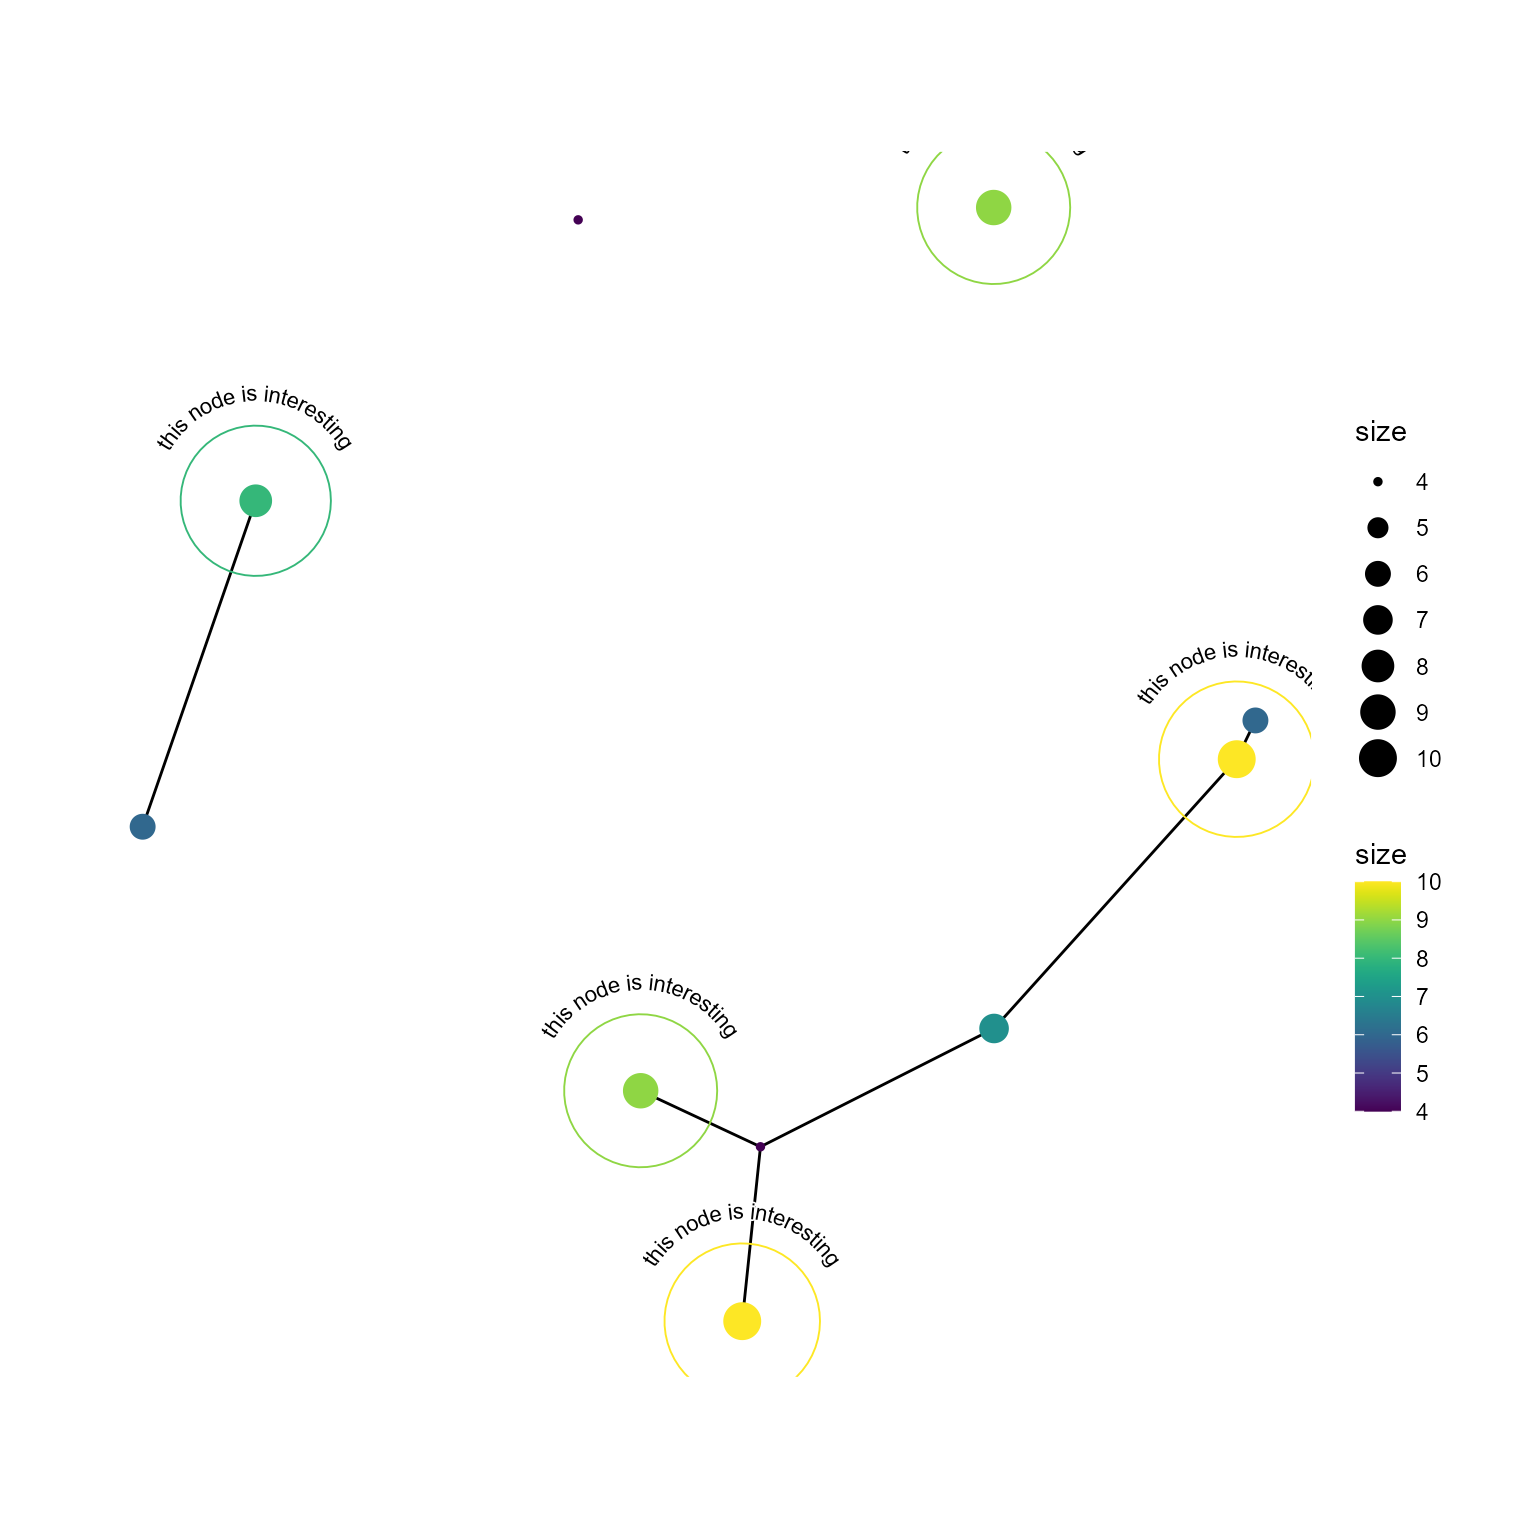
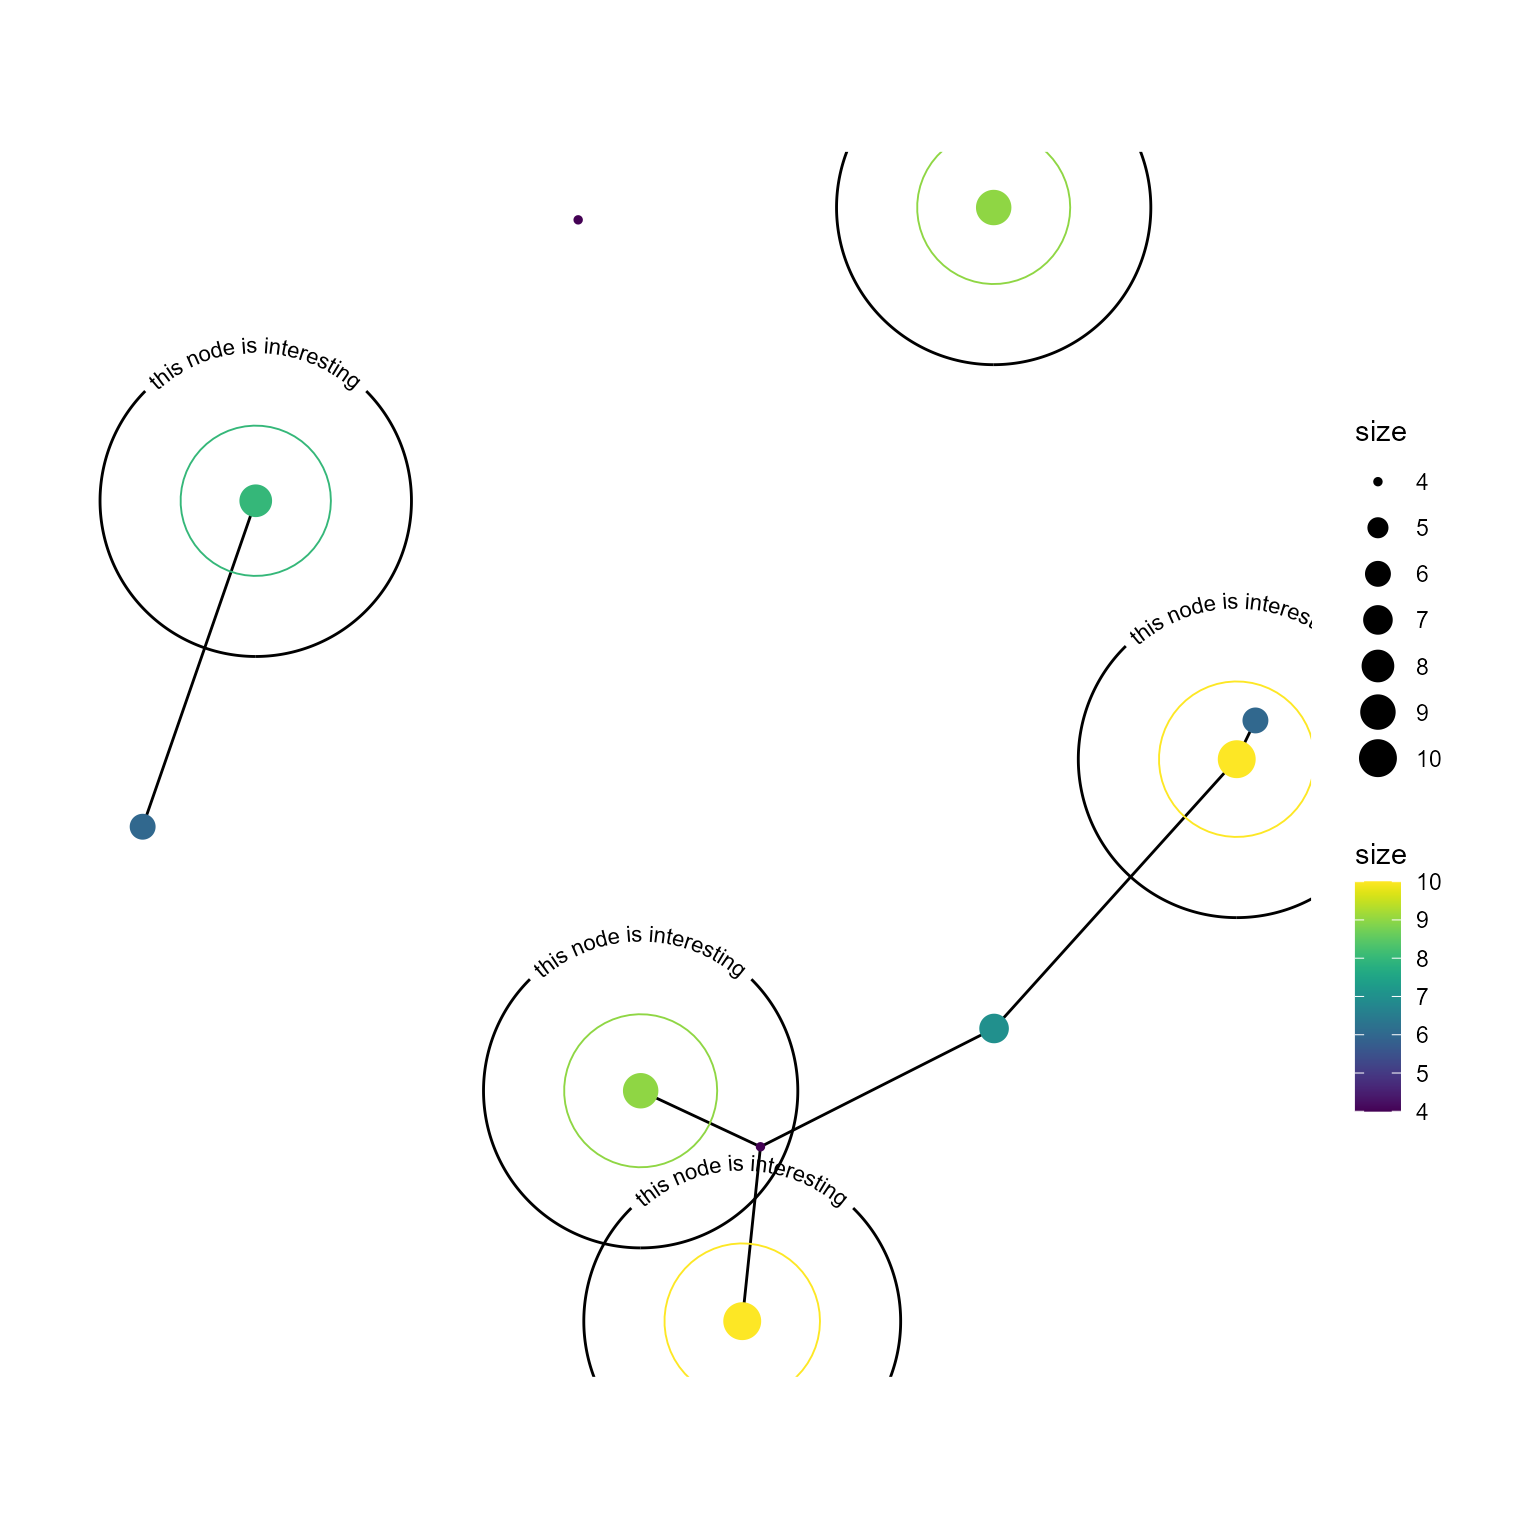
update docs

diff --git a/docs/graphhighlight/articles/usage_of_graphhighlight.html b/docs/graphhighlight/articles/usage_of_graphhighlight.html
@@ -188,7 +188,7 @@ nodes.</p>
 <span>                 highlight_by_shape <span class="op">=</span> <span class="cn">TRUE</span>,</span>
 <span>                 shape_with_text <span class="op">=</span> <span class="st">"this node is interesting"</span>,</span>
 <span>                 shape_size <span class="op">=</span> <span class="fl">21</span>,</span>
-<span>                 text_size<span class="op">=</span><span class="fl">3</span><span class="op">)</span><span class="op">+</span></span>
+<span>                 textpath_params<span class="op">=</span><span class="fu"><a href="https://rdrr.io/r/base/list.html" class="external-link">list</a></span><span class="op">(</span>size<span class="op">=</span><span class="fl">3</span><span class="op">)</span><span class="op">)</span><span class="op">+</span></span>
 <span>  <span class="fu"><a href="https://ggplot2.tidyverse.org/reference/coord_fixed.html" class="external-link">coord_fixed</a></span><span class="op">(</span><span class="op">)</span><span class="op">+</span></span>
 <span>  <span class="fu"><a href="https://ggraph.data-imaginist.com/reference/theme_graph.html" class="external-link">theme_graph</a></span><span class="op">(</span><span class="op">)</span></span></code></pre></div>
 <p><img src="usage_of_graphhighlight_files/figure-html/node7-1.png" width="768"></p>
@@ -303,6 +303,38 @@ looking.</p>
 <span>  <span class="fu"><a href="https://ggraph.data-imaginist.com/reference/theme_graph.html" class="external-link">theme_graph</a></span><span class="op">(</span><span class="op">)</span></span></code></pre></div>
 <p><img src="usage_of_graphhighlight_files/figure-html/combine-1.png" width="768"></p>
 <div class="sourceCode" id="cb17"><pre class="downlit sourceCode r">
+<code class="sourceCode R"><span><span class="va">g</span> <span class="op">&lt;-</span> <span class="fu"><a href="https://rdrr.io/pkg/igraph/man/sample_forestfire.html" class="external-link">sample_forestfire</a></span><span class="op">(</span>nodes <span class="op">=</span> <span class="fl">300</span>, fw.prob <span class="op">=</span> <span class="fl">0.01</span><span class="op">)</span></span>
+<span><span class="fu"><a href="https://rdrr.io/pkg/igraph/man/E.html" class="external-link">E</a></span><span class="op">(</span><span class="va">g</span><span class="op">)</span><span class="op">$</span><span class="va">weight</span> <span class="op">&lt;-</span> <span class="fu"><a href="https://rdrr.io/r/base/sample.html" class="external-link">sample</a></span><span class="op">(</span><span class="fu"><a href="https://rdrr.io/r/base/seq.html" class="external-link">seq</a></span><span class="op">(</span><span class="fl">0.1</span>, <span class="fl">100</span>, <span class="fl">0.1</span><span class="op">)</span>,</span>
+<span>  <span class="fu"><a href="https://rdrr.io/r/base/length.html" class="external-link">length</a></span><span class="op">(</span><span class="fu"><a href="https://rdrr.io/pkg/igraph/man/E.html" class="external-link">E</a></span><span class="op">(</span><span class="va">g</span><span class="op">)</span><span class="op">)</span>, replace<span class="op">=</span><span class="cn">TRUE</span><span class="op">)</span></span>
+<span><span class="fu"><a href="https://rdrr.io/pkg/igraph/man/V.html" class="external-link">V</a></span><span class="op">(</span><span class="va">g</span><span class="op">)</span><span class="op">$</span><span class="va">size</span> <span class="op">&lt;-</span> <span class="fu"><a href="https://rdrr.io/r/base/sample.html" class="external-link">sample</a></span><span class="op">(</span><span class="fu"><a href="https://rdrr.io/r/base/seq.html" class="external-link">seq</a></span><span class="op">(</span><span class="fl">0.1</span>, <span class="fl">100</span>, <span class="fl">0.1</span><span class="op">)</span>, </span>
+<span>  <span class="fu"><a href="https://rdrr.io/r/base/length.html" class="external-link">length</a></span><span class="op">(</span><span class="fu"><a href="https://rdrr.io/pkg/igraph/man/V.html" class="external-link">V</a></span><span class="op">(</span><span class="va">g</span><span class="op">)</span><span class="op">)</span>, replace<span class="op">=</span><span class="cn">TRUE</span><span class="op">)</span></span>
+<span><span class="fu"><a href="https://rdrr.io/pkg/igraph/man/V.html" class="external-link">V</a></span><span class="op">(</span><span class="va">g</span><span class="op">)</span><span class="op">$</span><span class="va">name</span> <span class="op">&lt;-</span> <span class="fu"><a href="https://rdrr.io/r/base/unlist.html" class="external-link">unlist</a></span><span class="op">(</span><span class="fu"><a href="https://rdrr.io/r/base/strsplit.html" class="external-link">strsplit</a></span><span class="op">(</span><span class="fu"><a href="https://rdrr.io/r/base/grep.html" class="external-link">gsub</a></span><span class="op">(</span><span class="st">" "</span>,<span class="st">""</span>,</span>
+<span>  <span class="fu">stringi</span><span class="fu">::</span><span class="fu"><a href="https://rdrr.io/pkg/stringi/man/stri_rand_lipsum.html" class="external-link">stri_rand_lipsum</a></span><span class="op">(</span><span class="fl">1</span><span class="op">)</span><span class="op">)</span>, <span class="st">""</span><span class="op">)</span><span class="op">)</span><span class="op">[</span><span class="fl">1</span><span class="op">:</span><span class="fu"><a href="https://rdrr.io/r/base/length.html" class="external-link">length</a></span><span class="op">(</span><span class="fu"><a href="https://rdrr.io/pkg/igraph/man/V.html" class="external-link">V</a></span><span class="op">(</span><span class="va">g</span><span class="op">)</span><span class="op">)</span><span class="op">]</span></span>
+<span></span>
+<span><span class="fu"><a href="https://ggraph.data-imaginist.com/reference/ggraph.html" class="external-link">ggraph</a></span><span class="op">(</span><span class="va">g</span>, layout<span class="op">=</span><span class="st">"kk"</span><span class="op">)</span> <span class="op">+</span> </span>
+<span>  <span class="fu"><a href="https://ggraph.data-imaginist.com/reference/geom_edge_diagonal.html" class="external-link">geom_edge_diagonal</a></span><span class="op">(</span><span class="fu"><a href="https://ggplot2.tidyverse.org/reference/aes.html" class="external-link">aes</a></span><span class="op">(</span>color<span class="op">=</span><span class="va">weight</span>, width<span class="op">=</span><span class="va">weight</span><span class="op">)</span><span class="op">)</span><span class="op">+</span></span>
+<span>  <span class="fu"><a href="https://ggraph.data-imaginist.com/reference/scale_edge_width.html" class="external-link">scale_edge_width</a></span><span class="op">(</span>range<span class="op">=</span><span class="fu"><a href="https://rdrr.io/r/base/c.html" class="external-link">c</a></span><span class="op">(</span><span class="fl">0.1</span>,<span class="fl">1</span><span class="op">)</span><span class="op">)</span><span class="op">+</span></span>
+<span>  <span class="fu"><a href="https://ggraph.data-imaginist.com/reference/scale_edge_colour.html" class="external-link">scale_edge_color_viridis</a></span><span class="op">(</span>option<span class="op">=</span><span class="st">"C"</span>, guide<span class="op">=</span><span class="st">"none"</span><span class="op">)</span><span class="op">+</span></span>
+<span>  <span class="fu"><a href="../reference/highlight_edge.html">highlight_edge</a></span><span class="op">(</span>filter<span class="op">=</span><span class="st">"weight&gt;50"</span>, highlight_color <span class="op">=</span> <span class="cn">NULL</span>,</span>
+<span>                 use_ggfx<span class="op">=</span><span class="st">"with_outer_glow"</span>,</span>
+<span>                 ggfx_params <span class="op">=</span> <span class="fu"><a href="https://rdrr.io/r/base/list.html" class="external-link">list</a></span><span class="op">(</span>colour<span class="op">=</span><span class="st">"red"</span>,expand<span class="op">=</span><span class="fl">1</span><span class="op">)</span><span class="op">)</span><span class="op">+</span></span>
+<span>  <span class="fu"><a href="https://ggraph.data-imaginist.com/reference/geom_node_point.html" class="external-link">geom_node_point</a></span><span class="op">(</span><span class="fu"><a href="https://ggplot2.tidyverse.org/reference/aes.html" class="external-link">aes</a></span><span class="op">(</span>color<span class="op">=</span><span class="va">size</span>, size<span class="op">=</span><span class="va">size</span><span class="op">)</span><span class="op">)</span><span class="op">+</span></span>
+<span>  <span class="fu"><a href="../reference/highlight_node.html">highlight_node</a></span><span class="op">(</span>filter<span class="op">=</span><span class="st">"size&lt;50"</span>, use_ggfx<span class="op">=</span><span class="st">"with_outer_glow"</span>,</span>
+<span>                 ggfx_params <span class="op">=</span> <span class="fu"><a href="https://rdrr.io/r/base/list.html" class="external-link">list</a></span><span class="op">(</span>colour<span class="op">=</span><span class="st">"white"</span>,expand<span class="op">=</span><span class="fl">2.5</span><span class="op">)</span><span class="op">)</span><span class="op">+</span></span>
+<span>  <span class="co">## Above code is same as stacking the layer:</span></span>
+<span>  <span class="co">## with_outer_glow(geom_node_point(aes(filter=size&lt;50)),</span></span>
+<span>  <span class="co">##                 colour="white", expand=2.5)+</span></span>
+<span>  <span class="fu"><a href="../reference/highlight_node.html">highlight_node</a></span><span class="op">(</span>filter<span class="op">=</span><span class="st">"size&gt;70"</span>, with_text<span class="op">=</span><span class="st">"Lorem ipsum dolor sit amet"</span>,</span>
+<span>                 textpath_params<span class="op">=</span><span class="fu"><a href="https://rdrr.io/r/base/list.html" class="external-link">list</a></span><span class="op">(</span>color <span class="op">=</span> <span class="st">"white"</span>,</span>
+<span>                                      text_only<span class="op">=</span><span class="cn">TRUE</span>,</span>
+<span>                                      size<span class="op">=</span><span class="fl">2</span><span class="op">)</span><span class="op">)</span><span class="op">+</span></span>
+<span>  <span class="fu"><a href="../reference/highlight_node.html">highlight_node</a></span><span class="op">(</span>filter<span class="op">=</span><span class="st">"size&gt;50"</span>, glow<span class="op">=</span><span class="cn">TRUE</span>, glow_base_size <span class="op">=</span> <span class="cn">TRUE</span><span class="op">)</span><span class="op">+</span></span>
+<span>  <span class="fu"><a href="https://sjmgarnier.github.io/viridis/reference/scale_viridis.html" class="external-link">scale_color_viridis</a></span><span class="op">(</span>option<span class="op">=</span><span class="st">"B"</span><span class="op">)</span><span class="op">+</span></span>
+<span>  <span class="fu"><a href="https://ggplot2.tidyverse.org/reference/coord_fixed.html" class="external-link">coord_fixed</a></span><span class="op">(</span><span class="op">)</span><span class="op">+</span></span>
+<span>  <span class="fu"><a href="https://ggraph.data-imaginist.com/reference/theme_graph.html" class="external-link">theme_graph</a></span><span class="op">(</span><span class="op">)</span><span class="op">+</span></span>
+<span>  <span class="fu"><a href="https://ggplot2.tidyverse.org/reference/theme.html" class="external-link">theme</a></span><span class="op">(</span>panel.background <span class="op">=</span> <span class="fu"><a href="https://ggplot2.tidyverse.org/reference/element.html" class="external-link">element_rect</a></span><span class="op">(</span>fill <span class="op">=</span> <span class="st">'black'</span><span class="op">)</span><span class="op">)</span></span></code></pre></div>
+<p><img src="usage_of_graphhighlight_files/figure-html/combine2-1.png" width="1440"></p>
+<div class="sourceCode" id="cb18"><pre class="downlit sourceCode r">
 <code class="sourceCode R"><span><span class="fu"><a href="https://rdrr.io/r/utils/sessionInfo.html" class="external-link">sessionInfo</a></span><span class="op">(</span><span class="op">)</span></span></code></pre></div>
 <pre><code><span><span class="co">## R version 4.2.2 (2022-10-31 ucrt)</span></span>
 <span><span class="co">## Platform: x86_64-w64-mingw32/x64 (64-bit)</span></span>
@@ -337,8 +369,9 @@ looking.</p>
 <span><span class="co">## [45] stringi_1.7.12     cachem_1.0.7       farver_2.1.1       viridis_0.6.2     </span></span>
 <span><span class="co">## [49] fs_1.6.1           bslib_0.4.2        ragg_1.2.5         generics_0.1.3    </span></span>
 <span><span class="co">## [53] vctrs_0.5.2        tools_4.2.2        glue_1.6.2         tweenr_2.0.2      </span></span>
-<span><span class="co">## [57] purrr_1.0.1        fastmap_1.1.1      yaml_2.3.7         colorspace_2.1-0  </span></span>
-<span><span class="co">## [61] tidygraph_1.2.3    memoise_2.0.1      knitr_1.42         sass_0.4.5</span></span></code></pre>
+<span><span class="co">## [57] purrr_1.0.1        shadowtext_0.1.2   fastmap_1.1.1      yaml_2.3.7        </span></span>
+<span><span class="co">## [61] colorspace_2.1-0   tidygraph_1.2.3    memoise_2.0.1      knitr_1.42        </span></span>
+<span><span class="co">## [65] sass_0.4.5</span></span></code></pre>
 </div>
 </div>
 </div>

diff --git a/docs/graphhighlight/reference/highlight_node.html b/docs/graphhighlight/reference/highlight_node.html
@@ -66,13 +66,12 @@ highlight the nodes</p>
 <span>  shape_size <span class="op">=</span> <span class="cn">NULL</span>,</span>
 <span>  shape_color <span class="op">=</span> <span class="cn">NULL</span>,</span>
 <span>  shape_with_text <span class="op">=</span> <span class="cn">NULL</span>,</span>
-<span>  text_color <span class="op">=</span> <span class="st">"black"</span>,</span>
-<span>  text_offset <span class="op">=</span> <span class="fu"><a href="https://rdrr.io/r/grid/unit.html" class="external-link">unit</a></span><span class="op">(</span><span class="fl">5</span>, <span class="st">"mm"</span><span class="op">)</span>,</span>
-<span>  text_size <span class="op">=</span> <span class="fl">3</span>,</span>
+<span>  with_text <span class="op">=</span> <span class="cn">NULL</span>,</span>
 <span>  glow_size <span class="op">=</span> <span class="fl">1.2</span>,</span>
 <span>  override_text <span class="op">=</span> <span class="cn">FALSE</span>,</span>
 <span>  use_ggfx <span class="op">=</span> <span class="cn">NULL</span>,</span>
-<span>  ggfx_params <span class="op">=</span> <span class="fu"><a href="https://rdrr.io/r/base/list.html" class="external-link">list</a></span><span class="op">(</span><span class="op">)</span></span>
+<span>  ggfx_params <span class="op">=</span> <span class="fu"><a href="https://rdrr.io/r/base/list.html" class="external-link">list</a></span><span class="op">(</span><span class="op">)</span>,</span>
+<span>  textpath_params <span class="op">=</span> <span class="fu"><a href="https://rdrr.io/r/base/list.html" class="external-link">list</a></span><span class="op">(</span><span class="op">)</span></span>
 <span><span class="op">)</span></span></code></pre></div>
     </div>
 
@@ -122,6 +121,10 @@ specified by `highlight_color` (default: FALSE, use the raw color of the nodes)<
 <dt>shape_with_text</dt>
 <dd><p>if specified, show text along with shape (21 only)
 using `geomtextpath`</p></dd>
+
+
+<dt>with_text</dt>
+<dd><p>if specified, show text around the nodes, not the shape</p></dd>
 
 
 <dt>glow_size</dt>
